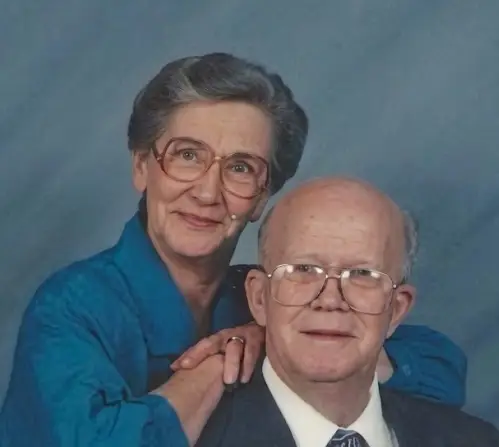
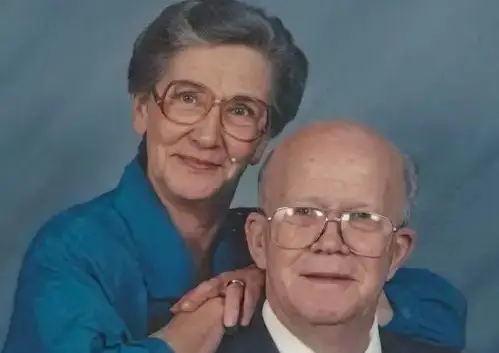
headers for text message previews

diff --git a/members.js b/members.js
@@ -19,17 +19,8 @@ module.exports = {
             { label: "Full Story", text: "Click here to read more", link: "/familytree/chupp" }
         ]
     },
-    "dad": {
-        name: "Dad",
-        mainImg: "Dad.webp",
-        knownFor: "Fixing anything with duct tape",
-        facts: [
-            { label: "Birthdate", text: "January 15, 1970" },
-            { label: "Location", text: "Seattle, WA" }
-        ]
-    },
     "dixie": {
-        name: "Dixie",
+        name: "Dixie Wilson",
         mainImg: "dixie.webp",
         knownFor: "Bright Smile and Sense of Adventure!!",
         facts: [